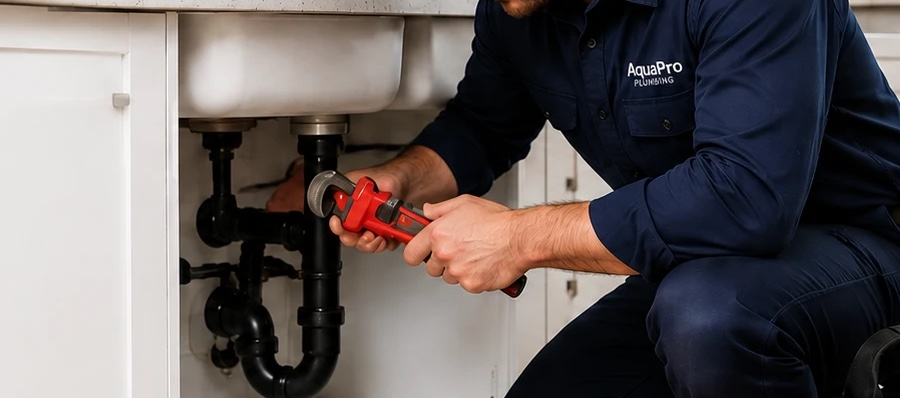
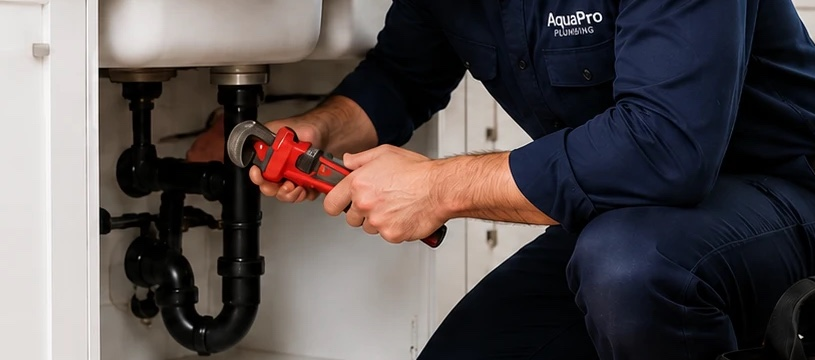
Contact hero: wider panel with gradual left-to-right reveal per mockup
Taller hero, pipes close-up at full contrast, and a wider dissolve zone
so the photo fades in gradually from the left like the mockup.

diff --git a/css/styles.css b/css/styles.css
@@ -115,7 +115,7 @@ h1, h2, h3, h4 { color: var(--navy); line-height: 1.2; font-weight: 800; }
 .hero--bleed .hero-copy { position: relative; z-index: 2; }
 .hero--home .hero-grid { grid-template-columns: minmax(0, 520px) 1fr; }
 .hero--home .hero-copy { padding: 110px 0 190px; }
-.hero--contact .hero-copy { padding: 56px 0 64px; }
+.hero--contact .hero-copy { padding: 72px 0 84px; }
 .hero--contact .hero-photo-bleed img {
   position: absolute; top: 0; right: 0;
   height: 100%; width: auto; max-width: none;
@@ -132,10 +132,15 @@ h1, h2, h3, h4 { color: var(--navy); line-height: 1.2; font-weight: 800; }
   background: linear-gradient(90deg,
     rgba(247, 250, 253, .96) 0%,
     rgba(247, 250, 253, .93) 35%,
-    rgba(247, 250, 253, .82) 45%,
-    rgba(247, 250, 253, .55) 52%,
-    rgba(247, 250, 253, .25) 57%,
-    rgba(247, 250, 253, 0) 62%);
+    rgba(247, 250, 253, .78) 45%,
+    rgba(247, 250, 253, .4) 51%,
+    rgba(247, 250, 253, 0) 56%);
+}
+.hero--contact .hero-photo-bleed img {
+  -webkit-mask-image: linear-gradient(90deg,
+    transparent 0%, rgba(0, 0, 0, .35) 12%, rgba(0, 0, 0, .75) 22%, #000 32%);
+  mask-image: linear-gradient(90deg,
+    transparent 0%, rgba(0, 0, 0, .35) 12%, rgba(0, 0, 0, .75) 22%, #000 32%);
 }
 .hero--about .hero-copy { padding: 76px 0 100px; }
 .hero--about .hero-photo-bleed img { object-position: right 25%; }

diff --git a/about.html b/about.html
@@ -8,7 +8,7 @@
 <link rel="preconnect" href="https://fonts.googleapis.com">
 <link rel="preconnect" href="https://fonts.gstatic.com" crossorigin>
 <link href="https://fonts.googleapis.com/css2?family=Inter:wght@400;500;600;700;800&family=Plus+Jakarta+Sans:wght@600;700;800&display=swap" rel="stylesheet">
-<link rel="stylesheet" href="css/styles.css?v=5">
+<link rel="stylesheet" href="css/styles.css?v=6">
 </head>
 <body>
 

diff --git a/contact.html b/contact.html
@@ -8,7 +8,7 @@
 <link rel="preconnect" href="https://fonts.googleapis.com">
 <link rel="preconnect" href="https://fonts.gstatic.com" crossorigin>
 <link href="https://fonts.googleapis.com/css2?family=Inter:wght@400;500;600;700;800&family=Plus+Jakarta+Sans:wght@600;700;800&display=swap" rel="stylesheet">
-<link rel="stylesheet" href="css/styles.css?v=5">
+<link rel="stylesheet" href="css/styles.css?v=6">
 </head>
 <body>
 

diff --git a/index.html b/index.html
@@ -8,7 +8,7 @@
 <link rel="preconnect" href="https://fonts.googleapis.com">
 <link rel="preconnect" href="https://fonts.gstatic.com" crossorigin>
 <link href="https://fonts.googleapis.com/css2?family=Inter:wght@400;500;600;700;800&family=Plus+Jakarta+Sans:wght@600;700;800&display=swap" rel="stylesheet">
-<link rel="stylesheet" href="css/styles.css?v=5">
+<link rel="stylesheet" href="css/styles.css?v=6">
 </head>
 <body>
 

diff --git a/reviews.html b/reviews.html
@@ -8,7 +8,7 @@
 <link rel="preconnect" href="https://fonts.googleapis.com">
 <link rel="preconnect" href="https://fonts.gstatic.com" crossorigin>
 <link href="https://fonts.googleapis.com/css2?family=Inter:wght@400;500;600;700;800&family=Plus+Jakarta+Sans:wght@600;700;800&display=swap" rel="stylesheet">
-<link rel="stylesheet" href="css/styles.css?v=5">
+<link rel="stylesheet" href="css/styles.css?v=6">
 </head>
 <body>
 

diff --git a/service-areas.html b/service-areas.html
@@ -8,7 +8,7 @@
 <link rel="preconnect" href="https://fonts.googleapis.com">
 <link rel="preconnect" href="https://fonts.gstatic.com" crossorigin>
 <link href="https://fonts.googleapis.com/css2?family=Inter:wght@400;500;600;700;800&family=Plus+Jakarta+Sans:wght@600;700;800&display=swap" rel="stylesheet">
-<link rel="stylesheet" href="css/styles.css?v=5">
+<link rel="stylesheet" href="css/styles.css?v=6">
 </head>
 <body>
 

diff --git a/services.html b/services.html
@@ -8,7 +8,7 @@
 <link rel="preconnect" href="https://fonts.googleapis.com">
 <link rel="preconnect" href="https://fonts.gstatic.com" crossorigin>
 <link href="https://fonts.googleapis.com/css2?family=Inter:wght@400;500;600;700;800&family=Plus+Jakarta+Sans:wght@600;700;800&display=swap" rel="stylesheet">
-<link rel="stylesheet" href="css/styles.css?v=5">
+<link rel="stylesheet" href="css/styles.css?v=6">
 </head>
 <body>
 
